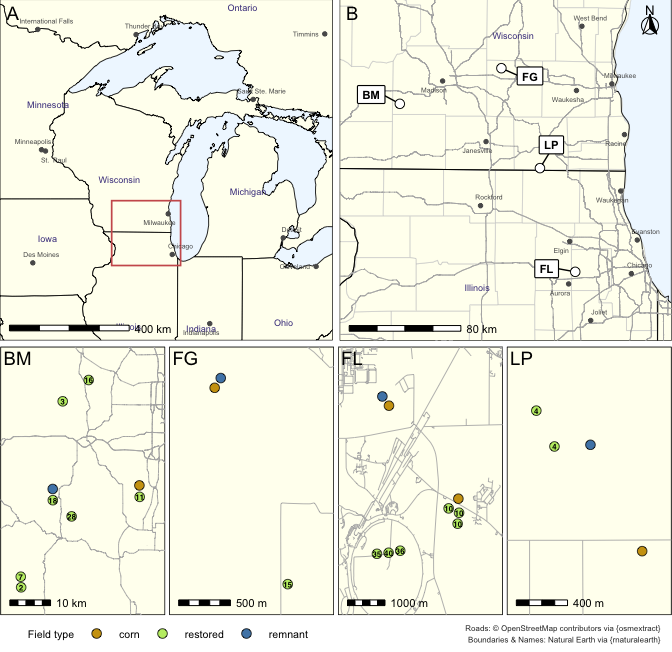
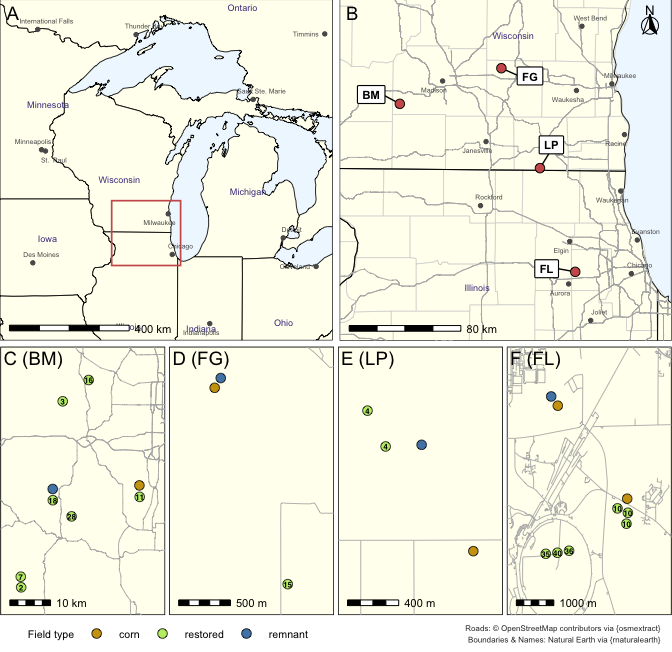
REFRESHED reports

diff --git a/fungal_ecology.md b/fungal_ecology.md
@@ -2,7 +2,7 @@ Results: Soil Fungal Communities
 ================
 Beau Larkin
 
-Last updated: 05 March, 2026
+Last updated: 12 March, 2026
 
 - [Description](#description)
 - [Packages and libraries](#packages-and-libraries)
@@ -669,12 +669,17 @@ Are field age and gf_axis correlated?
 gfi_yrs <- gf_axis %>% 
   left_join(sites %>% select(field_name, yr_since), by = join_by(field_name)) %>% 
   arrange(-gf_axis)
-gfa_yr_cor <- with(gfi_yrs, cor.test(yr_since, gf_axis))
-data.frame(cor = gfa_yr_cor$estimate, R2 = gfa_yr_cor$estimate^2, row.names = "value")
+gfa_yr_cor <- with(gfi_yrs, cor.test(yr_since, gf_axis, method = "spearman"))
 ```
 
-    ##             cor        R2
-    ## value -0.929948 0.8648033
+    ## Warning in cor.test.default(yr_since, gf_axis, method = "spearman"): Cannot compute exact p-value with ties
+
+``` r
+data.frame(rho = gfa_yr_cor$estimate, R2 = gfa_yr_cor$estimate^2, row.names = "value")
+```
+
+    ##              rho        R2
+    ## value -0.8145934 0.6635625
 
 The relatively strong correlation suggests that different restoration
 methods over time are still reflected in plant composition. Years since
@@ -684,22 +689,17 @@ Visualize grass forb gradient compared with plant composition, grass and
 forb cover, and years since restoration.
 
 ``` r
-fs8_xlab <- pfg %>% 
-  left_join(sites, by = join_by(field_name)) %>% 
-  filter(field_type != "corn") %>% 
-  group_by(field_type) %>% 
-  mutate(xlab = case_when(field_type == "restored" ~ paste("RS", 1:n(), sep = "-"),
-                          field_type == "remnant"  ~ paste("RM", 1:n(), sep = "-"))
-  ) %>% 
-  ungroup() %>% 
-  select(field_name, xlab)
+site_codes <- sites %>% 
+  arrange(region, field_type, field_name) %>% 
+  group_by(region) %>% 
+  mutate(field_code = paste(region, 1:n(), sep = "-"))
 plt_div <- 
   prich %>% 
   left_join(gf_axis, by = join_by(field_name)) %>% 
-  left_join(fs8_xlab, by = join_by(field_name)) %>% 
-  select(field_name, xlab, gf_axis, pl_rich, pl_shan) %>%
+  left_join(site_codes, by = join_by(field_name)) %>% 
+  select(field_name, field_code, gf_axis, pl_rich, pl_shan) %>%
   pivot_longer(pl_rich:pl_shan, names_to = "var", values_to = "value") %>% 
-  ggplot(aes(x = fct_reorder(xlab, gf_axis), y = value, group = var)) +
+  ggplot(aes(x = fct_reorder(field_code, gf_axis), y = value, group = var)) +
   geom_col(aes(fill = var), position = position_dodge()) +
   labs(x = NULL, y = expression(atop("Alpha diversity", paste("(", italic(n), " species)")))) +
   scale_fill_discrete_qualitative(name = "Diversity index", palette = "Dynamic", 
@@ -720,9 +720,9 @@ pfg_comp <-
   select(field_name, yr_since, gf_axis, pfg, pct_comp) %>% 
   mutate(pfg = factor(pfg, levels = c("shrubTree", "legume", "C3_grass", "C4_grass", "forb"),
                       labels = c("shrub, tree", "legume", "grass (C3)", "grass (C4)", "forb"))) %>% 
-  left_join(fs8_xlab, by = join_by(field_name))
+  left_join(site_codes, by = join_by(field_name))
 pfg_comp_fig <- 
-  ggplot(pfg_comp, aes(x = fct_reorder(xlab, gf_axis), y = pct_comp, group = pfg)) +
+  ggplot(pfg_comp, aes(x = fct_reorder(field_code, gf_axis), y = pct_comp, group = pfg)) +
   geom_col(aes(fill = pfg)) +
   labs(x = NULL, y = "Composition (%)") +
   scale_fill_manual(name = "Functional group", values = pfg_col,
@@ -741,14 +741,24 @@ pfg_pct <-
   select(field_name, yr_since, gf_axis, pfg, pct_cvr)  %>% 
   mutate(pfg = factor(pfg, levels = c("C4_grass", "forb"),
                       labels = c("grass (C4)", "forb"))) %>% 
-  left_join(fs8_xlab, by = join_by(field_name))
+  left_join(site_codes, by = join_by(field_name))
 gf_pct_fig <- 
-  ggplot(pfg_pct, aes(x = fct_reorder(xlab, gf_axis), y = pct_cvr, group = pfg)) +
+  ggplot(pfg_pct, aes(x = fct_reorder(field_code, gf_axis), y = pct_cvr, group = pfg)) +
   geom_step(aes(color = pfg), linejoin = "round", lineend = "round") +
   geom_point(aes(color = pfg), shape = 21, size = 1.8, fill = "white", stroke = 0.9) +
   scale_color_manual(name = "Functional group", values = pfg_col[4:5], 
                      labels = c(expression("grass ("*C[4]*")"), expression("forb"))) +
   labs(x = NULL, y = "Cover (%)") +
+  theme_cor +
+  theme(plot.tag = element_text(size = 14, face = 1, hjust = 0),
+        plot.tag.position = c(0, 1))
+gfi_yrs_fig <- 
+  gfi_yrs %>% 
+  left_join(site_codes, by = join_by(field_name, yr_since)) %>% 
+  ggplot(aes(x = fct_reorder(field_code, gf_axis), y = yr_since, group = field_type)) +
+  geom_point(color = "gray20", shape = 21, size = 1.8, fill = "white", stroke = 0.9) +
+  labs(x = NULL, y = expression(atop("Age", "(years)"))) +
+  lims(y = c(0,30)) +
   theme_cor +
   theme(plot.tag = element_text(size = 14, face = 1, hjust = 0),
         plot.tag.position = c(0, 1))
@@ -769,8 +779,9 @@ gfi_loc_fig <-
 #### Unified figure
 
 ``` r
-pfg_pct_fig <- (plt_div / plot_spacer() / pfg_comp_fig / plot_spacer() / gf_pct_fig / plot_spacer() / gfi_loc_fig) +
-  plot_layout(heights = c(1,0.01,1,0.01,0.7,0.01,0.2)) +
+pfg_pct_fig <- (plt_div / plot_spacer() / pfg_comp_fig / plot_spacer() / 
+                  gf_pct_fig / plot_spacer() / gfi_yrs_fig / plot_spacer() / gfi_loc_fig) +
+  plot_layout(heights = c(1,0.01,1,0.01,0.7,0.01,0.5,0.01,0.2)) +
   plot_annotation(tag_levels = 'A') 
 ```
 
@@ -2217,7 +2228,7 @@ its_div_fig <-
   ) +
   geom_errorbar(aes(ymin = mean, ymax = ucl, group = index), 
                 position = position_dodge(width = div_dodw), width = 0, linewidth = lw) +
-  geom_text(aes(y = ucl, label = rep(c("a", "b", "b"), 2), group = index), 
+  geom_text(aes(y = ucl, label = c("A", "B", "B", "a", "b", "b"), group = index), 
             position = position_dodge(width = div_dodw), vjust = -1, family = "sans", size = 3.5) +
   labs(x = NULL) +
   scale_y_continuous(name = expression(atop("Soil fungal", paste("Richness (", italic(n), " OTUs)"))), limits = c(0, 700), 
@@ -2247,7 +2258,7 @@ amf_div_fig <-
   ) +
   geom_errorbar(aes(ymin = mean, ymax = ucl, group = index), 
                 position = position_dodge(width = div_dodw), width = 0, linewidth = lw) +
-  geom_text(aes(y = ucl, label = rep(c("a", "b", "b"), 2), group = index), 
+  geom_text(aes(y = ucl, label = c("A", "B", "B", "a", "b", "b"), group = index), 
             position = position_dodge(width = div_dodw), vjust = -1, family = "sans", size = 3.5) +
   labs(x = NULL) +
   scale_y_continuous(name = expression(atop("AM fungal", paste("Richness (", italic(n), " OTUs)"))), limits = c(0, 80), 

diff --git a/edaphic.md b/edaphic.md
@@ -2,7 +2,7 @@ Soil properties
 ================
 Beau Larkin
 
-Last updated: 05 March, 2026
+Last updated: 12 March, 2026
 
 - [Description](#description)
 - [Packages and libraries](#packages-and-libraries)
@@ -42,55 +42,6 @@ to_install <- setdiff(packages_needed, rownames(installed.packages()))
 if (length(to_install)) install.packages(to_install)
 invisible(lapply(packages_needed, library, character.only = TRUE))
 ```
-
-    ## ── Attaching core tidyverse packages ───────────────────────────────────────────────────────────────────────────────────────────────────────── tidyverse 2.0.0 ──
-    ## ✔ dplyr     1.2.0     ✔ readr     2.1.6
-    ## ✔ forcats   1.0.1     ✔ stringr   1.6.0
-    ## ✔ ggplot2   4.0.2     ✔ tibble    3.3.1
-    ## ✔ lubridate 1.9.4     ✔ tidyr     1.3.2
-    ## ✔ purrr     1.2.1     
-    ## ── Conflicts ─────────────────────────────────────────────────────────────────────────────────────────────────────────────────────────── tidyverse_conflicts() ──
-    ## ✖ dplyr::filter() masks stats::filter()
-    ## ✖ dplyr::lag()    masks stats::lag()
-    ## ℹ Use the conflicted package (<http://conflicted.r-lib.org/>) to force all conflicts to become errors
-    ## Loading required package: permute
-    ## 
-    ## This is vegan 2.7-2
-    ## 
-    ## 
-    ## Attaching package: 'ape'
-    ## 
-    ## 
-    ## The following object is masked from 'package:dplyr':
-    ## 
-    ##     where
-    ## 
-    ## 
-    ## Registered S3 methods overwritten by 'adegraphics':
-    ##   method         from
-    ##   biplot.dudi    ade4
-    ##   kplot.foucart  ade4
-    ##   kplot.mcoa     ade4
-    ##   kplot.mfa      ade4
-    ##   kplot.pta      ade4
-    ##   kplot.sepan    ade4
-    ##   kplot.statis   ade4
-    ##   scatter.coa    ade4
-    ##   scatter.dudi   ade4
-    ##   scatter.nipals ade4
-    ##   scatter.pco    ade4
-    ##   score.acm      ade4
-    ##   score.mix      ade4
-    ##   score.pca      ade4
-    ##   screeplot.dudi ade4
-    ## 
-    ## Registered S3 method overwritten by 'spdep':
-    ##   method   from
-    ##   plot.mst ape 
-    ## 
-    ## Registered S3 method overwritten by 'adespatial':
-    ##   method          from       
-    ##   plot.multispati adegraphics
 
 ## Root path function
 
@@ -231,11 +182,11 @@ forward.sel(soil_z, mem, alpha = 0.05, nperm = 1999)
     ## Testing variable 1
     ## Testing variable 2
     ## Testing variable 3
-    ## Procedure stopped (alpha criteria): pvalue for variable 3 is 0.277000 (> 0.050000)
+    ## Procedure stopped (alpha criteria): pvalue for variable 3 is 0.278000 (> 0.050000)
 
     ##   variables order        R2     R2Cum  AdjR2Cum        F pvalue
-    ## 1      MEM3     3 0.1621929 0.1621929 0.1257666 4.452622  5e-04
-    ## 2      MEM1     1 0.1373308 0.2995238 0.2358441 4.313178  5e-04
+    ## 1      MEM3     3 0.1621929 0.1621929 0.1257666 4.452622 0.0015
+    ## 2      MEM1     1 0.1373308 0.2995238 0.2358441 4.313178 0.0005
 
 ``` r
 soil_mem_rda <- rda(soil_z, mem[, c(1,3)])

diff --git a/sites.md b/sites.md
@@ -2,7 +2,7 @@ Site locations and pairwise distances
 ================
 Beau Larkin
 
-Last updated: 05 March, 2026
+Last updated: 12 March, 2026
 
 - [Description](#description)
 - [Package and library installation](#package-and-library-installation)
@@ -477,7 +477,7 @@ area_map <-
     data = region_locs,
     aes(x = long_cen, y = lat_cen),
     color = "black",
-    fill = "white",
+    fill = "indianred",
     shape = 21,
     size = 3
   ) +
@@ -569,24 +569,24 @@ sites_plot <-
 Produce individual region panels using `make_zoom_map()`.
 
 ``` r
-map_BM <- make_zoom_map(bb_BM, panel_tag = "BM", pos = tag_pos, road_data = site_roads$rd_BM)
+map_BM <- make_zoom_map(bb_BM, panel_tag = "C (BM)", pos = tag_pos, road_data = site_roads$rd_BM)
 ```
 
 ``` r
-map_FG <- make_zoom_map(bb_FG, panel_tag = "FG", pos = tag_pos, road_data = site_roads$rd_FG)
+map_FG <- make_zoom_map(bb_FG, panel_tag = "D (FG)", pos = tag_pos, road_data = site_roads$rd_FG)
 ```
 
 ``` r
-map_FL <- make_zoom_map(bb_FL, panel_tag = "FL", pos = tag_pos, road_data = site_roads$rd_FL)
+map_FL <- make_zoom_map(bb_FL, panel_tag = "F (FL)", pos = tag_pos, road_data = site_roads$rd_FL)
 ```
 
 ``` r
-map_LP <- make_zoom_map(bb_LP, panel_tag = "LP", pos = tag_pos, road_data = site_roads$rd_LP)
+map_LP <- make_zoom_map(bb_LP, panel_tag = "E (LP)", pos = tag_pos, road_data = site_roads$rd_LP)
 ```
 
 ``` r
 region_zoom_grid <- ggarrange(
-  map_BM, NULL, map_FG, NULL, map_FL, NULL, map_LP,
+  map_BM, NULL, map_FG, NULL, map_LP, NULL, map_FL,
   nrow = 1, align = "h", widths = c(rep(c(1, 0.02), 3), 1)
 )
 ```

diff --git a/sequence_data.md b/sequence_data.md
@@ -2,7 +2,7 @@ Species Data: ETL and Diagnostics
 ================
 Beau Larkin
 
-Last updated: 05 March, 2026
+Last updated: 12 March, 2026
 
 - [Description](#description)
 - [Resources](#resources)

diff --git a/functions.md b/functions.md
@@ -2,7 +2,7 @@ Supplement: Functions
 ================
 Beau Larkin
 
-Last updated: 05 March, 2026
+Last updated: 12 March, 2026
 
 - [Description](#description)
   - [Sequence data processing
